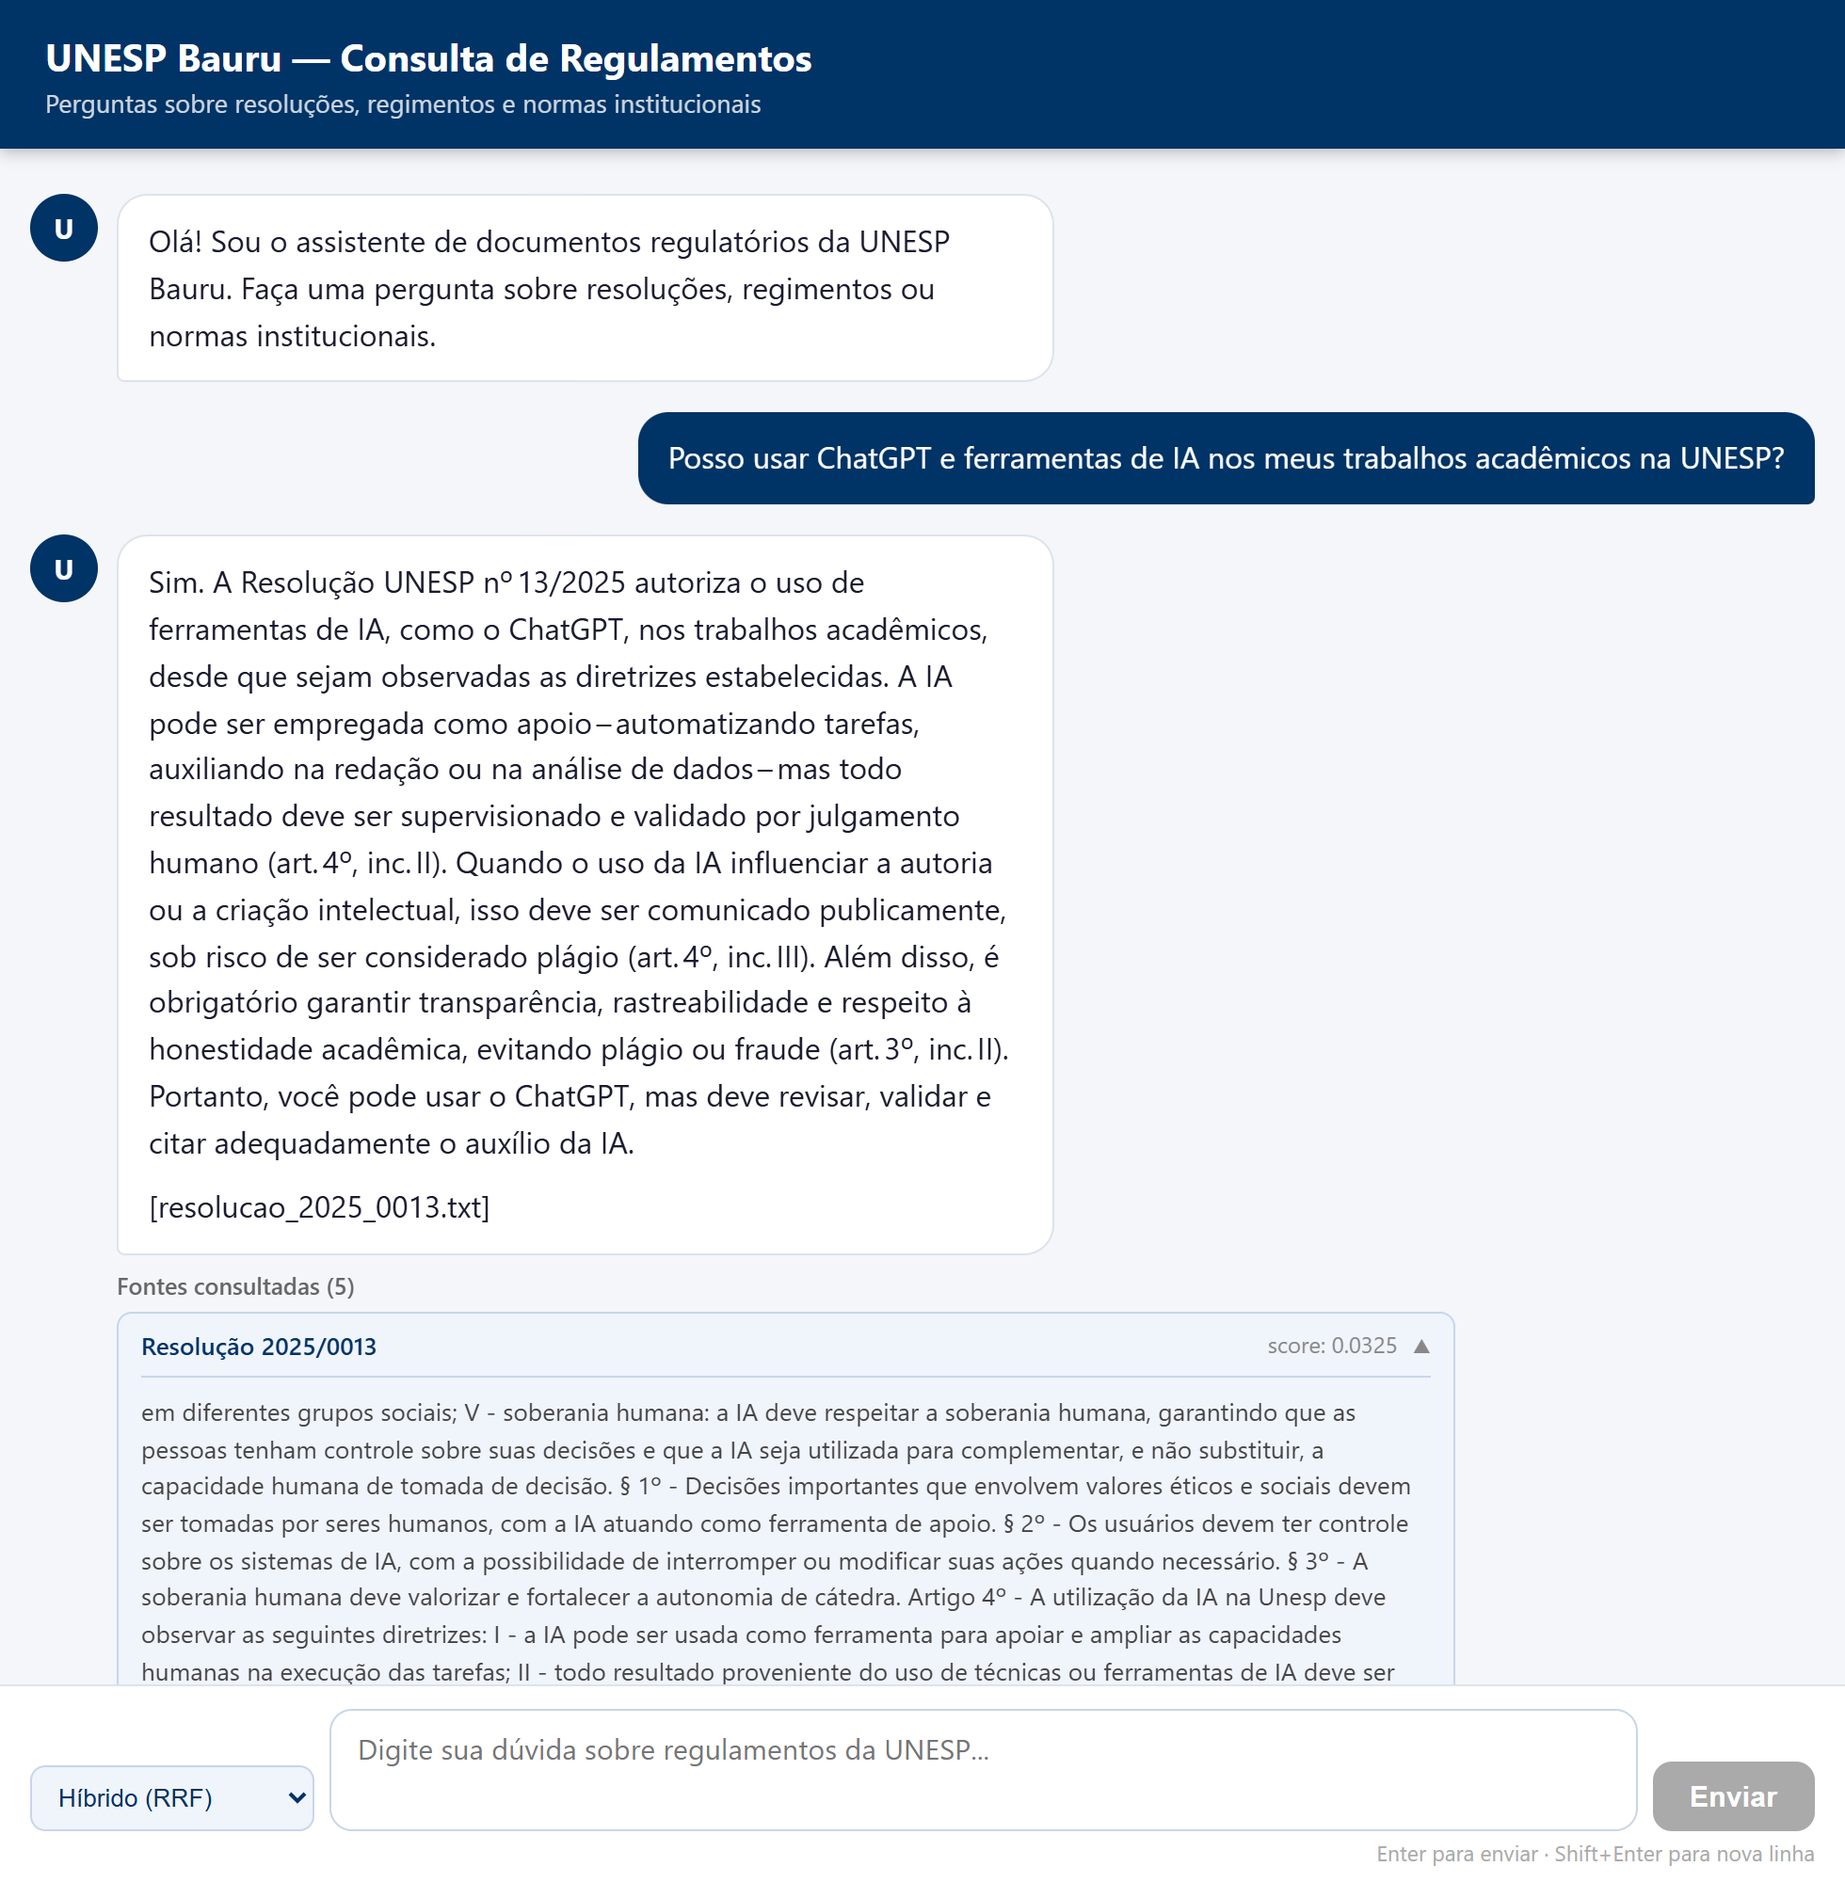
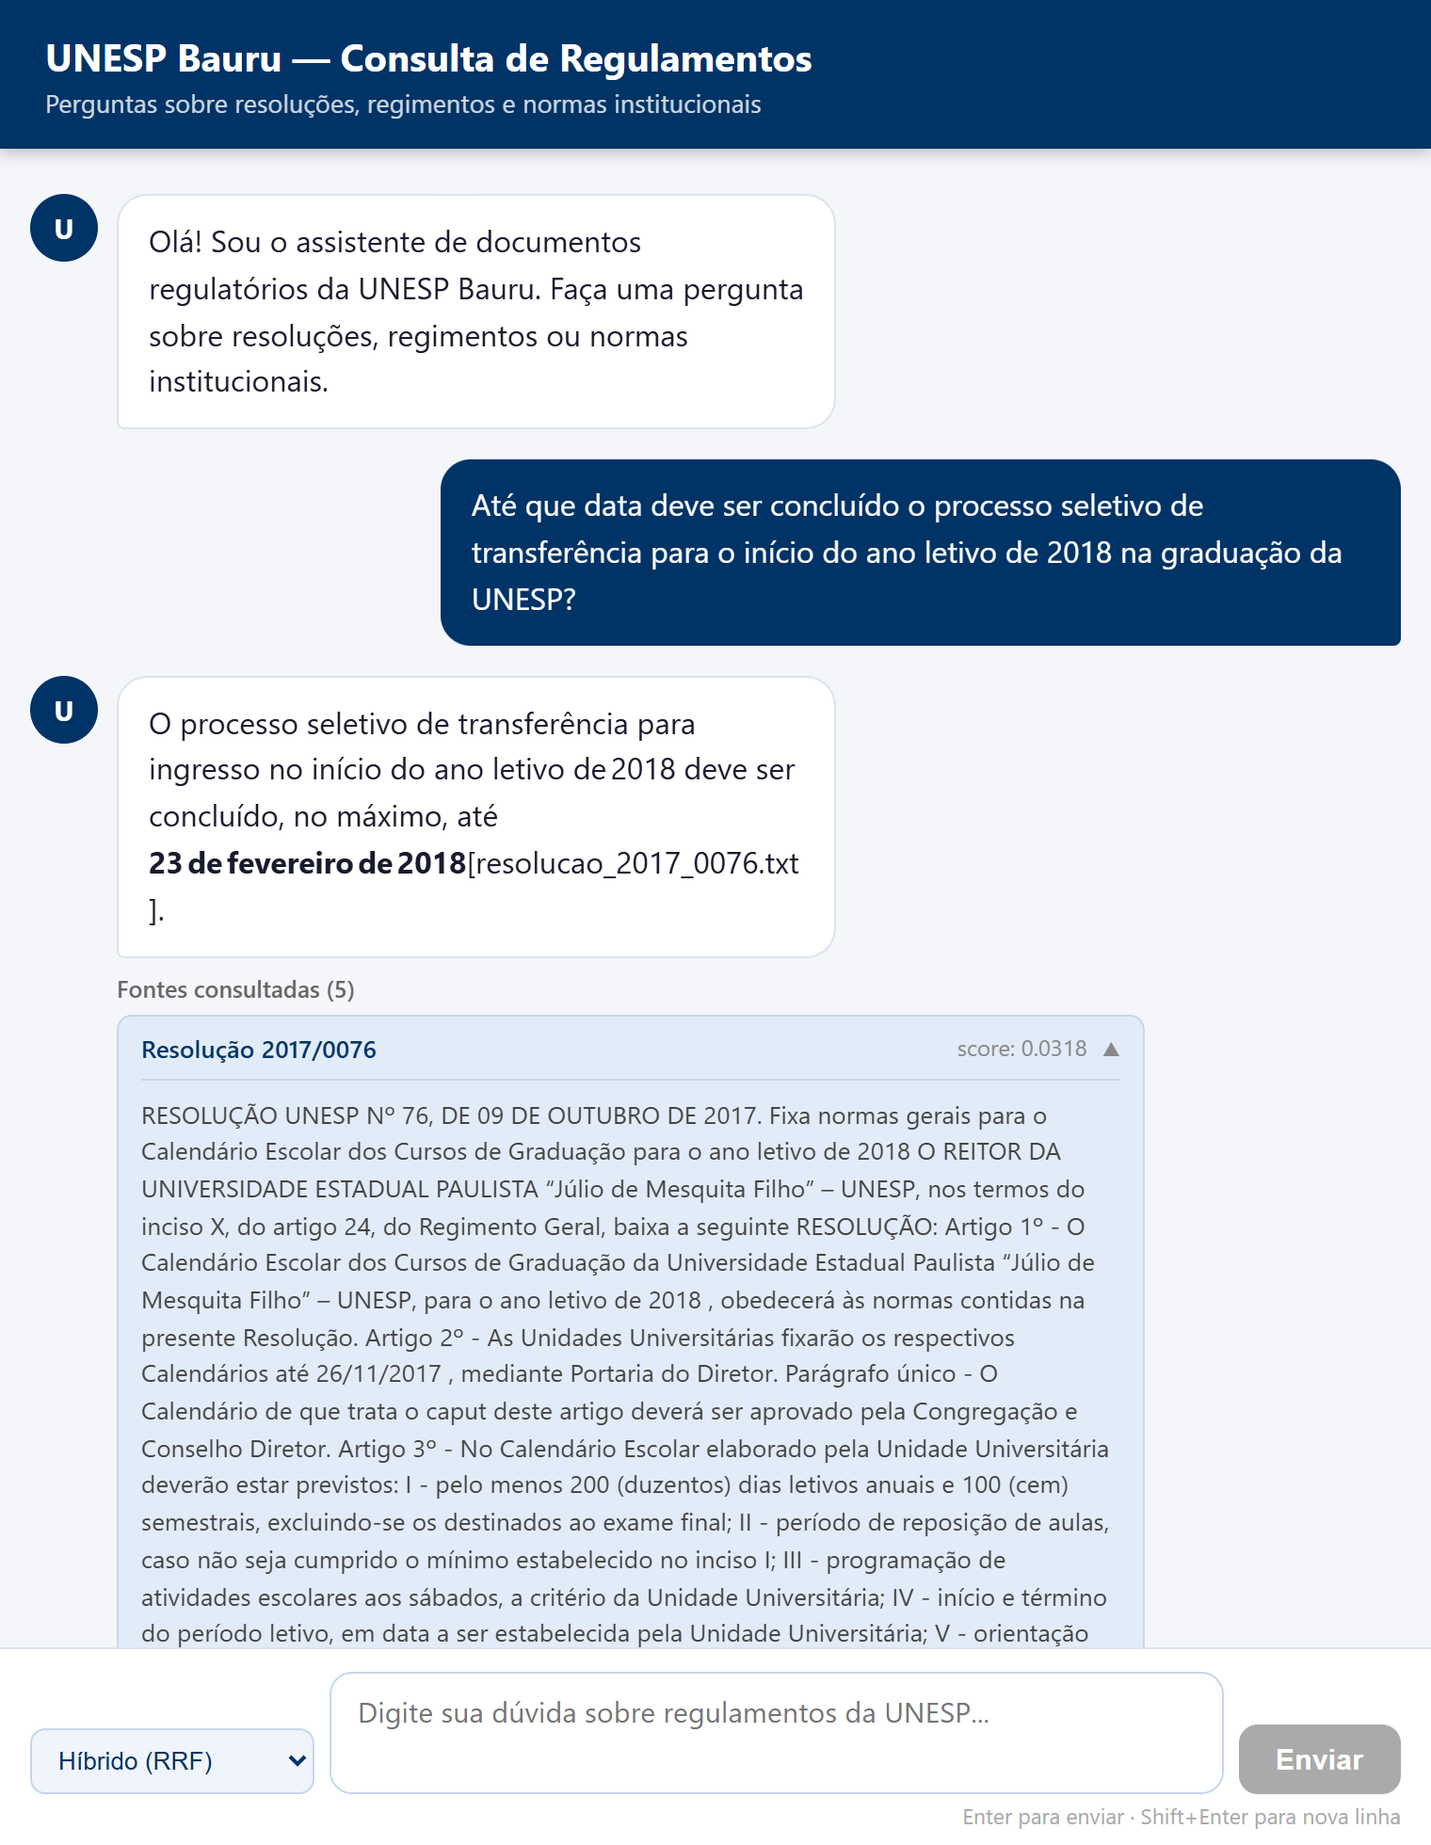
docs: secao 3.6 (avaliacao da geracao), apendices A e B, Figura 3 verificada e validador do documento
- 3.6: protocolo da avaliacao da geracao (40 perguntas, 3 condicoes, anotacao cega, criterios,
  definicao de alucinacao, testes); 3.5 renomeada para "Avaliacao da Recuperacao"
- Apendices A (50 consultas da recuperacao) e B (40 perguntas da geracao), gerados dos JSON
- Figura 3 (interface): resposta com a data de transferencia de 2018, conferida no texto da
  Res. 76/2017; uma captura anterior foi descartada por trazer um detalhe nao suportado pela
  resolucao
- scripts/validar_documento.py: confere texto x dados x codigo (numeros, hash do corpus, modelos e
  parametros, caminhos citados, referencias citadas, legendas e numeracao); apontou duas tabelas
  que nunca eram citadas no texto, ja corrigidas
- fichamento dos 12 trabalhos relacionados para os autores lerem antes da banca

diff --git a/scripts/validar_documento.py b/scripts/validar_documento.py
@@ -1,0 +1,145 @@
+"""Valida o documento do TCC contra os dados e o codigo do repositorio.
+
+Confere, em DOCUMENTO-ENVIO/TCC_RAG_UNESP_Bauru.docx:
+  1. sobras de template/erro ("undefined", "NaN", "${", "[object")
+  2. numeros-chave do texto x data/resultados_resumo.json, corpus_release.json e config_sistema.json
+  3. modelo de embedding, modelo de LLM, k1/b e parametros do RRF x codigo
+  4. caminhos de arquivos citados no texto existem no repositorio
+  5. toda referencia e citada no texto
+  6. toda "Tabela/Figura/Quadro N" citada tem legenda e vice-versa
+  7. numeracao de secoes sequencial
+  8. pendencias conhecidas ([a definir], ano da capa)
+
+Saida: lista de problemas (exit 1) ou "OK". Os avisos nao reprovam.
+
+Uso: python scripts/validar_documento.py
+"""
+from __future__ import annotations
+
+import html
+import json
+import re
+import sys
+import zipfile
+from pathlib import Path
+
+ROOT = Path(__file__).resolve().parent.parent
+DOCX = ROOT / "DOCUMENTO-ENVIO" / "TCC_RAG_UNESP_Bauru.docx"
+
+
+def paragrafos() -> list[str]:
+    xml = zipfile.ZipFile(DOCX).read("word/document.xml").decode("utf-8")
+    return [t for t in (html.unescape(re.sub(r"<[^>]+>", "", p)).strip() for p in re.findall(r"<w:p[ >].*?</w:p>", xml, flags=re.S)) if t]
+
+
+def br(x: float, d: int = 3) -> str:
+    return f"{x:.{d}f}".replace(".", ",")
+
+
+def main() -> int:
+    erros: list[str] = []
+    avisos: list[str] = []
+    paras = paragrafos()
+    texto = "\n".join(paras)
+    i_ref = max(i for i, p in enumerate(paras) if p.upper() == "REFERÊNCIAS")
+    corpo = "\n".join(paras[:i_ref])
+    # as referências terminam onde começam os apêndices
+    i_ap = next((i for i, p in enumerate(paras) if i > i_ref and p.upper().startswith("APÊNDICE")), len(paras))
+    refs = paras[i_ref + 1:i_ap]
+
+    # 1. sobras
+    for ruim in ("undefined", "NaN", "${", "[object"):
+        if ruim in texto:
+            erros.append(f"sobra de template/erro no texto: '{ruim}'")
+
+    # 2. numeros x dados
+    R = json.loads((ROOT / "data" / "resultados_resumo.json").read_text("utf-8"))
+    G, T = R["global"], R["por_tipo"]
+    esperados = {
+        "MRR do hibrido": br(G["rrf"]["mrr"]), "MRR do BM25": br(G["bm25"]["mrr"]),
+        "MRR da vetorial": br(G["vec"]["mrr"]), "MRR do FTS-PG": br(G["fts"]["mrr"]),
+        "Hit@1 do hibrido": br(G["rrf"]["hit1"]), "MRR semantico do hibrido": br(T["semantic"]["rrf"]["mrr"]),
+    }
+    for nome, v in esperados.items():
+        if v not in texto:
+            erros.append(f"{nome} ({v}) nao aparece no texto: documento desatualizado em relacao a resultados_resumo.json?")
+    for n, rotulo in ((R["meta"]["n_consultas"], "consultas"),):
+        if f"{n} {rotulo}" not in texto:
+            avisos.append(f"'{n} {rotulo}' nao aparece literalmente")
+    C = json.loads((ROOT / "data" / "corpus_release.json").read_text("utf-8"))
+    if C["sha256_pacote"] not in texto:
+        erros.append("o SHA-256 do corpus no texto difere de data/corpus_release.json")
+    n_leg = len(list((ROOT / "data" / "legislacao").glob("resolucao_*.txt")))
+    if n_leg != C["documentos"] or f"{n_leg} resoluções" not in texto:
+        erros.append(f"numero de resolucoes: {n_leg} em disco, {C['documentos']} em corpus_release.json, texto cita '{n_leg} resoluções'?")
+
+    # 3. parametros x codigo
+    sys.path.insert(0, str(ROOT))
+    from src import bm25, config, db  # noqa: E402
+    for rotulo, v in (("modelo de embedding", config.EMBEDDING_MODEL.split("/")[-1]), ("modelo de LLM", config.GROQ_MODEL.split("/")[-1]),
+                      ("dimensao", str(config.EMBEDDING_DIM))):
+        if v not in texto:
+            erros.append(f"{rotulo} do codigo ('{v}') nao aparece no texto")
+    if f"k₁ = {br(bm25.K1, 1)}" not in texto or f"b = {br(bm25.B, 2)}" not in texto:
+        erros.append("parametros do BM25 (k1, b) do codigo nao batem com o texto")
+    if f"ef_search = {db.HNSW_EF_SEARCH}" not in texto:
+        erros.append(f"hnsw.ef_search do codigo ({db.HNSW_EF_SEARCH}) nao aparece no texto")
+    for velho in ("llama-3.3-70b-versatile", "multilingual-e5-large", "plainto_tsquery, e combina"):
+        if velho in texto and velho != "plainto_tsquery, e combina":
+            avisos.append(f"termo antigo no texto: '{velho}' (confira se e menção histórica)")
+
+    # 4. caminhos citados existem
+    for caminho in sorted(set(re.findall(r"\b(?:src|scripts|app|frontend|data)/[\w./-]+", corpo))):
+        c = caminho.rstrip(".,;:)")
+        if not (ROOT / c).exists() and not any(ROOT.glob(c + "*")) and "AAAA" not in c:
+            erros.append(f"caminho citado no texto nao existe: {c}")
+
+    # 5. referencias citadas
+    for r in refs:
+        sobrenome = re.split(r"[,;.]", r)[0].strip()
+        busca = "pgvector" if sobrenome.upper() == "PGVECTOR" else sobrenome
+        if not re.search(re.escape(busca), corpo, flags=re.I):
+            erros.append(f"referencia nao citada no texto: {sobrenome}")
+    if len(refs) < 20:
+        avisos.append(f"apenas {len(refs)} referencias (meta: >= 20)")
+
+    # 6. tabelas, figuras e quadros
+    for tipo in ("Tabela", "Figura", "Quadro"):
+        legendas = set(re.findall(rf"^{tipo} (\d+) —", corpo, flags=re.M))
+        sem_legendas = "\n".join(l for l in corpo.splitlines() if not re.match(rf"^{tipo} \d+ —", l))
+        citadas = set(re.findall(rf"{tipo} (\d+)\b", sem_legendas))   # citações no texto, sem contar a própria legenda
+        for n in sorted(citadas - legendas, key=int):
+            erros.append(f"'{tipo} {n}' e citada mas nao tem legenda")
+        for n in sorted(legendas - citadas, key=int):
+            erros.append(f"'{tipo} {n}' tem legenda mas nunca e citada no texto")
+        if legendas and sorted(map(int, legendas)) != list(range(1, len(legendas) + 1)):
+            erros.append(f"numeracao de {tipo}s nao sequencial: {sorted(map(int, legendas))}")
+
+    # 7. secoes
+    secoes = re.findall(r"^(\d+(?:\.\d+)+) \S", corpo, flags=re.M)
+    vistos: dict[str, int] = {}
+    for s in secoes:
+        pai, _, filho = s.rpartition(".")
+        n = int(filho)
+        if n != vistos.get(pai, 0) + 1:
+            erros.append(f"numeracao de secoes: {s} depois de {pai}.{vistos.get(pai, 0)}")
+        vistos[pai] = n
+
+    # 8. pendencias conhecidas
+    if "a definir" in texto:
+        avisos.append("folha de aprovacao: nomes da banca ainda a definir")
+    if re.search(r"Bauru\s+2026", texto):
+        avisos.append("capa/folha de rosto com ano 2026 (a entrega e em 2027)")
+
+    for a in avisos:
+        print("AVISO:", a)
+    for e in erros:
+        print("ERRO: ", e)
+    print(f"\n{len(erros)} erro(s), {len(avisos)} aviso(s); {len(paras)} paragrafos, {len(refs)} referencias, {len(texto.split())} palavras.")
+    if not erros:
+        print("OK")
+    return 1 if erros else 0
+
+
+if __name__ == "__main__":
+    sys.exit(main())

diff --git a/scripts/capturar_interface.py b/scripts/capturar_interface.py
@@ -24,7 +24,8 @@ def main() -> int:
     SAIDA.parent.mkdir(parents=True, exist_ok=True)
     with sync_playwright() as p:
         navegador = p.chromium.launch(channel="msedge", headless=True)
-        pagina = navegador.new_page(viewport={"width": 980, "height": 1000}, device_scale_factor=2)
+        # janela estreita: na largura da pagina do TCC o texto da interface fica maior e legivel
+        pagina = navegador.new_page(viewport={"width": 760, "height": 980}, device_scale_factor=2)
         pagina.goto(URL)
         pagina.fill("textarea.input-box", pergunta)
         pagina.click("button.send-btn")

diff --git a/DOCUMENTO-ENVIO/fichamento_trabalhos_relacionados.md b/DOCUMENTO-ENVIO/fichamento_trabalhos_relacionados.md
@@ -1,0 +1,48 @@
+# Fichamento dos trabalhos relacionados (seção 2.7 do TCC)
+
+> Para **ler antes da banca**: a banca costuma perguntar sobre os trabalhos citados. Para cada um: o que o TCC afirma sobre ele,
+> por que ele importa para o nosso trabalho e onde ler. Os dados bibliográficos foram conferidos em fonte primária em
+> 19/10/2026. O resumo de cada trabalho é só o que o texto do TCC usa; **leiam pelo menos o resumo (abstract) original**.
+>
+> Três dos trabalhos são de 2026 (Bessa et al. no PROPOR; Sousa e Soares e Santos et al. no SBIE): eu só tive acesso à
+> página de resumo deles, então vale ler o texto completo antes de qualquer discussão mais detalhada com a banca.
+
+## Recuperação densa, lexical e híbrida
+
+| Trabalho | O que o TCC diz | Por que importa para nós |
+|---|---|---|
+| **Karpukhin et al. (2020)** — *Dense Passage Retrieval for Open-Domain Question Answering*. EMNLP 2020, p. 6769–6781. [DOI 10.18653/v1/2020.emnlp-main.550](https://doi.org/10.18653/v1/2020.emnlp-main.550) | A recuperação densa por duplo codificador superava o BM25 em perguntas de domínio aberto. | Origem da ideia de usar embeddings no lugar de palavras-chave; é o que a nossa busca vetorial faz. |
+| **Thakur et al. (2021)** — *BEIR: a Heterogeneous Benchmark for Zero-shot Evaluation of Information Retrieval Models*. NeurIPS 2021 (Datasets and Benchmarks). [arXiv:2104.08663](https://arxiv.org/abs/2104.08663) | Em dados de vários domínios, sem ajuste, o BM25 continua uma linha de base robusta e vence modelos densos em vários conjuntos. | Explica por que o BM25 empatou com a busca vetorial no nosso corpus. |
+| **Lin (2019)** — *The Neural Hype and Comparisons Against Weak Baselines*. ACM SIGIR Forum 52(2), p. 40–51. [DOI 10.1145/3308774.3308781](https://doi.org/10.1145/3308774.3308781) | Critica artigos que mostram ganhos de modelos neurais contra linhas de base fracas ou mal ajustadas. | **É o nosso caso na versão preliminar:** a "linha de base BM25" era o `ts_rank_cd` com E obrigatório. Tragam este exemplo se a banca perguntar o que mudou. |
+| **Rosa et al. (2021)** — *Yes, BM25 is a Strong Baseline for Legal Case Retrieval*. [arXiv:2105.05686](https://arxiv.org/abs/2105.05686) | Um BM25 simples ficou em 2º lugar na tarefa de recuperação de casos do COLIEE 2021. | BM25 é forte em texto jurídico/normativo, como as resoluções. |
+| **Cormack et al. (2009)** — *Reciprocal Rank Fusion outperforms Condorcet and individual rank learning methods*. SIGIR 2009, p. 758–759. | O RRF combina rankings sem calibração (já estava no TCC). | É o método do nosso "híbrido". |
+
+## Português e domínio jurídico brasileiro
+
+| Trabalho | O que o TCC diz | Por que importa para nós |
+|---|---|---|
+| **Bonifacio et al. (2021)** — *mMARCO: a Multilingual Version of the MS MARCO Passage Ranking Dataset*. [arXiv:2108.13897](https://arxiv.org/abs/2108.13897) | Versão multilíngue do MS MARCO (traduzida), com português. | Recurso de avaliação em português, mas com texto geral, não normativo. |
+| **Bueno et al. (2024)** — *Quati: a Brazilian Portuguese Information Retrieval Dataset from Native Speakers*. [arXiv:2404.06976](https://arxiv.org/abs/2404.06976) (também no STIL 2024) | Consultas escritas por falantes nativos; relevância julgada com apoio de um LLM. | Mostra a prática de usar consultas de falantes reais, que é o que a Etapa 5 faz. Citamos a versão arXiv porque a ordem dos autores difere do Anthology. |
+| **Bessa, Lobato e Junior (2026)** — *Development and Evaluation of a Hybrid Information Retrieval System Applied to the Brazilian Legal Domain*. PROPOR 2026, v. 2, p. 186–190. [Anthology](https://aclanthology.org/2026.propor-2.26/) | Sistema híbrido (BM25L + modelo de linguagem) para o direito brasileiro. | Converge com a nossa escolha de combinar sinal lexical e semântico. **Só vimos o resumo.** |
+
+## RAG para atendimento acadêmico
+
+| Trabalho | O que o TCC diz | Por que importa para nós |
+|---|---|---|
+| **Sousa e Soares (2026)** — *RAG para Atendimento Acadêmico: uma Avaliação de Modelos de Embedding Compactos no Contexto Universitário*. SBIE 2026, p. 1701–1716. [DOI 10.5753/sbie.2026.28059](https://doi.org/10.5753/sbie.2026.28059) | Compara embeddings compactos de código aberto (até 0,6 bi de parâmetros) com proprietários, com Recall, MRR e nDCG; os compactos são competitivos. | Valida a escolha do e5-small (modelo compacto, local). **O trabalho mais próximo do nosso.** |
+| **Santos et al. (2026)** — *LIA: um Chatbot para Consulta de Diretrizes de Inteligência Artificial em Universidades Brasileiras*. SBIE 2026, p. 487–502. [DOI 10.5753/sbie.2026.27205](https://doi.org/10.5753/sbie.2026.27205) | RAG com ChromaDB + BM25 + reranqueador (BAAI). | Também usa recuperação híbrida; tem reranqueamento, que nós deixamos como trabalho futuro. |
+
+## Avaliação de RAG e alucinações
+
+| Trabalho | O que o TCC diz | Por que importa para nós |
+|---|---|---|
+| **Es et al. (2024)** — *RAGAs: Automated Evaluation of Retrieval Augmented Generation*. EACL 2024 (demos), p. 150–158. [DOI 10.18653/v1/2024.eacl-demo.16](https://doi.org/10.18653/v1/2024.eacl-demo.16) | Avalia RAG sem respostas de referência (por exemplo, fidelidade ao contexto). | Alternativa automática à nossa anotação humana; dá para citar como trabalho futuro. |
+| **Magesh et al. (2025)** — *Hallucination-Free? Assessing the Reliability of Leading AI Legal Research Tools*. J. Empirical Legal Studies 22(2), p. 216–242. [DOI 10.1111/jels.12413](https://doi.org/10.1111/jels.12413) | Ferramentas comerciais jurídicas com recuperação ainda alucinam em parte das respostas (avaliação pré-registrada, 200+ consultas). | Justifica avaliar a **fidelidade** das respostas, e não só a recuperação. |
+| **Dahl et al. (2024)** — *Large Legal Fictions: Profiling Legal Hallucinations in Large Language Models*. J. Legal Analysis 16(1), p. 64–93. [DOI 10.1093/jla/laae003](https://doi.org/10.1093/jla/laae003) | Taxas altas de alucinação em consultas jurídicas e uma tipologia dos erros. | Base para a nossa definição de alucinação (afirmação específica não suportada pelo corpus). |
+
+## Perguntas que a banca pode fazer sobre esta seção
+
+1. **"Por que não comparar com um LLM maior / com reranqueamento?"** Fora do escopo; está em trabalhos futuros, e o LIA usa reranqueador.
+2. **"O que o seu trabalho tem de novo em relação ao Sousa e Soares (2026)?"** Comparamos quatro métodos de recuperação (inclusive a busca nativa do PostgreSQL × BM25 real) com testes de significância, sobre resoluções da UNESP, e avaliamos a geração com anotação humana às cegas. Eles comparam modelos de embedding.
+3. **"Por que a versão preliminar mostrava o FTS tão fraco?"** Erro de implementação nosso (E obrigatório e `ts_rank_cd`); é exatamente o alerta de Lin (2019).
+4. **"Como vocês definem alucinação?"** Afirmação específica (número, data, artigo, procedimento) que não está nas resoluções do corpus ou que as contradiz (fidelidade ao corpus), seguindo a ideia de Dahl et al. (2024) e Magesh et al. (2025).
